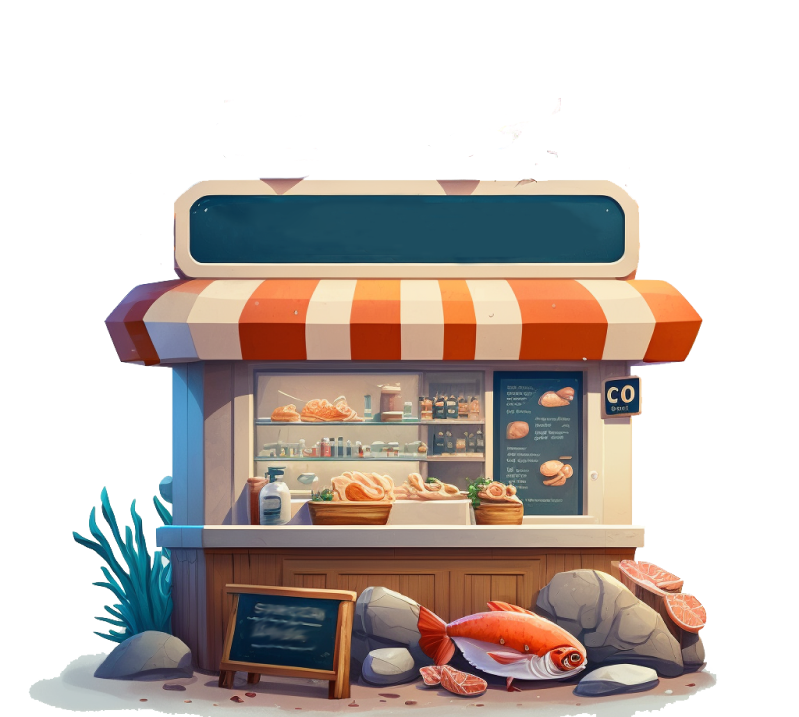
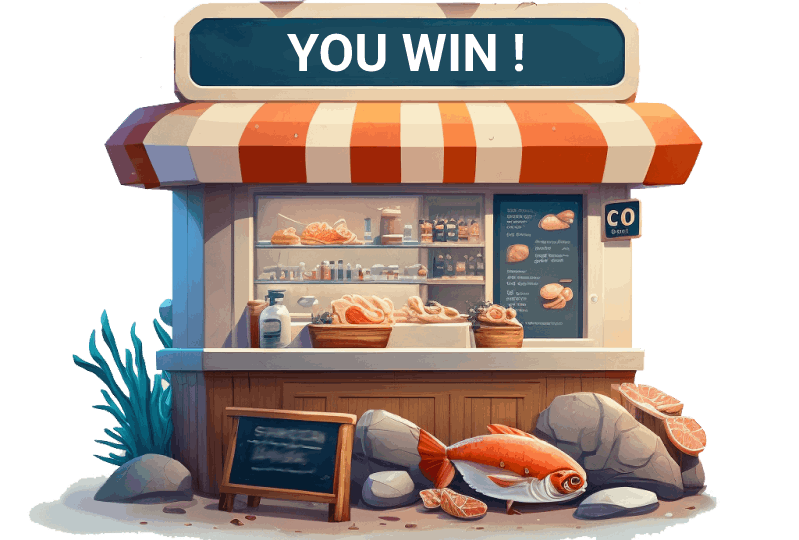
Сделал меню победы

diff --git a/src/screens/WinScreen/Index.tsx b/src/screens/WinScreen/Index.tsx
@@ -1,15 +1,15 @@
 import { useState } from "preact/hooks";
 
 import background from "@/assets/background.webp";
-import start_button from "@/assets/start_button.png";
-import start_button_pushed from "@/assets/start_button_pushed.png";
+import counter from "@/assets/counter.svg";
+import recept_photo from "@/assets/recept_photo.png";
+import shop from "@/assets/shop.png";
 import StylerComponent from "@/components/StylerComponent";
-import { currentScreen } from "@/store";
+import { score } from "@/store";
 
 import style from "./style.scss?inline";
 
 export default function WinScreen() {
-  const [startButtonImage, setStartButtonImage] = useState(start_button);
 
   return <StylerComponent style={style}>
     <div class="StartScreen">
@@ -17,14 +17,23 @@ export default function WinScreen() {
         class="StartScreen__bg"
         src={background}
       />
-
-      <img
-        src={startButtonImage}
-        class="StartScreen__startButton"
-        onClick={() => currentScreen.value = "game"}
-        onMouseEnter={() => setStartButtonImage(start_button_pushed)}
-        onMouseLeave={() => setStartButtonImage(start_button)}
-      />
+      <div class="ShopElement">
+        <p class="Score">
+          {score}x
+          <img
+            src={counter}
+          />
+          =
+          <div class="Recept">
+            <a class="Btn" href="https://freefrontend.com/css-buttons/">Смотреть рецепт</a>
+            <img src={recept_photo}/>
+          </div>
+        </p>
+        <img
+          src={shop}
+          class="Shop"
+        />
+      </div>
     </div>
   </StylerComponent>;
 }

diff --git a/src/screens/WinScreen/style.scss b/src/screens/WinScreen/style.scss
@@ -33,4 +33,58 @@
     width: fit-content;
     height: 40%;
   }
+
+  .ShopElement {
+    position: absolute;
+    height: 100%;
+    width: 100%;
+    display: flex;
+    align-items: center;
+    justify-content: center;
+    flex-direction: column;
+    gap: 10px;
+  }
+
+  .Shop {
+    height: auto;
+    width: 50%;
+  }
+
+  .Score {
+    display: flex;
+    gap: 16px;
+    align-items: center;
+    color: #fff;
+    font-size: 30px;
+  }
+
+  .Recept {
+    display: flex;
+    flex-direction: column;
+    justify-content: center;
+    align-items: center;
+    gap: 10px;
+  }
+
+  .Btn {
+    background-color: #f87b43;
+    width: 240px;
+    border: 100% 150px;
+    border-radius: 10px;
+    font-size: 22px;
+    text-decoration: none;
+    height: auto;
+    padding: 4px;
+    color: white;
+  }
+
+  @media screen and (max-width:720px) {
+    .Score {
+      font-size: 15px;
+    }
+
+    .Btn {
+      width: 240px;
+    }
+  }
 }

diff --git a/src/screens/GameScreen/Crab/CrabClaws.tsx b/src/screens/GameScreen/Crab/CrabClaws.tsx
@@ -5,7 +5,7 @@ import crabClawBig from "@/assets/crab_claw_big.svg";
 import crabClawSmall from "@/assets/crab_claw_small.svg";
 import StylerComponent from "@/components/StylerComponent";
 import { CLAW_TRAVEL_DELAY } from "@/constants";
-import type { TCoords } from "@/store";
+import { manageGameplay, TCoords } from "@/store";
 import { crabClaws } from "@/store";
 
 import style from "./crabClaws.scss?inline";
@@ -58,6 +58,7 @@ export default function CrabClaws() {
           left: undefined
         };
         setLeftClawHasFish(false);
+        manageGameplay();
       }, CLAW_TRAVEL_DELAY * 2);
     }
   }, [crabClaws.value.left]);
@@ -78,6 +79,7 @@ export default function CrabClaws() {
           ...crabClaws.value,
           right: undefined
         };
+        manageGameplay();
         setRightClawHasFish(false);
       }, CLAW_TRAVEL_DELAY * 2);
     }

diff --git a/src/screens/GameScreen/Ui.tsx b/src/screens/GameScreen/Ui.tsx
@@ -1,3 +1,4 @@
+import counter from "@/assets/counter.svg";
 import StylerComponent from "@/components/StylerComponent";
 import { score } from "@/store";
 
@@ -5,7 +6,14 @@ import style from "./ui.scss?inline";
 
 export default function Ui() {
   return <StylerComponent style={style}>
-    <div class='Ui' />
-    <p>Score: {score}</p>
+    <div class='Ui' >
+      <p class="Score">
+        {score}x
+        <img
+          class="Claw"
+          src={counter}
+        />
+      </p>
+    </div>
   </StylerComponent>;
 }

diff --git a/src/screens/GameScreen/ui.scss b/src/screens/GameScreen/ui.scss
@@ -2,4 +2,27 @@
   position: absolute;
   top: 0;
   left: 0;
+  height: 100%;
+}
+
+.Score {
+  position: absolute;
+  bottom: 0;
+  display: flex;
+  gap: 16px;
+  align-items: center;
+  color: #fff;
+  font-size: 30px;
+  margin: 30px;
+}
+
+@media screen and (max-width:720px) {
+  .Score {
+    font-size: 15px;
+  }
+
+  .Claw {
+    width: 100%;
+    height: auto;
+  }
 }

diff --git a/src/store.ts b/src/store.ts
@@ -17,3 +17,10 @@ export const appDimensions = signal<DOMRect | undefined>(undefined);
 export const crabClaws = signal<TClaws>({});
 export const score = signal<number>(0);
 export const misses = signal<number>(0);
+
+export function manageGameplay() {
+  score.value++;
+  if (score.value >= 1) {
+    currentScreen.value = "win";
+  }
+}

diff --git a/TODO.md b/TODO.md
@@ -2,5 +2,6 @@
 | Filename | line # | TODO |
 |:------|:------:|:------|
 | [src/App.tsx](src/App.tsx#L27) | 27 | Обновлять на каждый скрол |
-| [src/screens/GameScreen/Fish.tsx](src/screens/GameScreen/Fish.tsx#L40) | 40 | По хорошему константные значения вынести в отдельный конифг |
-| [src/screens/GameScreen/Fish.tsx](src/screens/GameScreen/Fish.tsx#L48) | 48 | Закинуть хук на изменение времени анимации после ее конца |
+| [src/store.ts](src/store.ts#L23) | 23 | Поменять 1 на 15 |
+| [src/screens/GameScreen/Fish.tsx](src/screens/GameScreen/Fish.tsx#L39) | 39 | По хорошему константные значения вынести в отдельный конифг |
+| [src/screens/GameScreen/Fish.tsx](src/screens/GameScreen/Fish.tsx#L47) | 47 | Закинуть хук на изменение времени анимации после ее конца |
